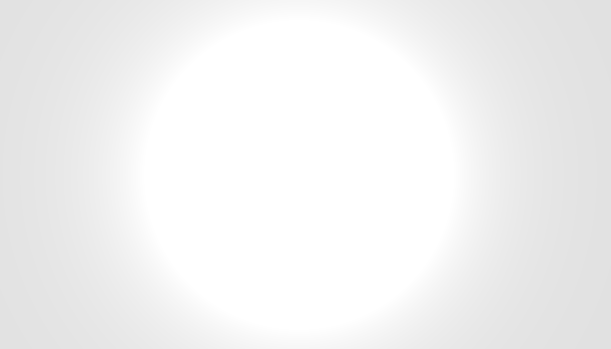
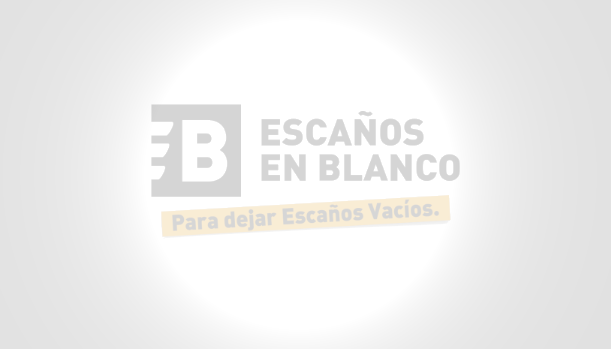
Añadido Saber más y fondo en la pantalla final

Changed region(s): [[0.2488, 0.2865, 0.7774, 0.6877]]

diff --git a/juego.js b/juego.js
@@ -1,6 +1,17 @@
 class GameOverScene extends Phaser.Scene {
 
   contador = 0;
+  textContent = ""
+  mensajes = 0;
+  moreButton = "";
+
+  style = {
+    fontSize: '32px',
+    fontFamily: 'Arial',
+    fill: '#000000',
+    wordWrap: { width: 580, useAdvancedWrap: true }
+  }
+    
 
   constructor() {
     super({ key: 'GameOverScene' });
@@ -8,6 +19,7 @@ class GameOverScene extends Phaser.Scene {
 
     // Vincula el contexto de 'this' en 'startGame' a la instancia de 'GameOverScene'
     this.startGame = this.startGame.bind(this);
+    this.updateText = this.updateText.bind(this);
   }
 
   init(data) {
@@ -25,20 +37,30 @@ class GameOverScene extends Phaser.Scene {
     console.log('PlayGameScene Scene Called');
     if (this.sound.context.state === 'suspended') {
       this.sound.context.resume();
-  }
+    }
     this.scene.start('PlayGameScene');
   }
-   
+
   create() {
+
+    this.mensajes = 0;
     // Configura el estado inicial de esta escena
     this.add.image(0, 0, 'background').setOrigin(0);
      // Cambia el color de fondo a blanco
     this.cameras.main.setBackgroundColor('#FFFFFF');
   
-    this.add.text(120, 10, '¡Enhorabuena!', { fontSize: '32px', fontFamily: 'Arial', fill: '#000000' });
-    this.add.text(20, 50, '¡Has eliminado a '+this.contador+ ' diputados!', { fontSize: '32px', fontFamily: 'Arial' , fill: '#000000' });
+    //this.add.text(120, 10, '¡Enhorabuena!', { fontSize: '32px', fontFamily: 'Arial', fill: '#000000' });
+    //this.add.text(20, 50, '¡Has eliminado a '+this.contador+ ' diputados!', { fontSize: '32px', fontFamily: 'Arial' , fill: '#000000' });
+    if (this.contador === 0) {
+      this.textContent = this.add.text(20, 16, '¡No has eliminado a ningún diputado!\nNo tengas miedo de golpearles, es solo un juego', this.style );
+    }
+    else
+    {
+      this.textContent = this.add.text(20, 16, '      ¡Enhorabuena!\n¡Has eliminado a '+this.contador+ ' diputados!', this.style );
+    }
 
-    this.startButton = this.add.text(100, 250, '  Jugar\nde nuevo', {
+    // Boton de jugar de nuevo  
+    this.startButton = this.add.text(20, 260, '   Jugar\nde nuevo', {
       fontSize: '32px',
       fontFamily: 'Arial' ,
       fill: '#FFAA00'
@@ -46,13 +68,50 @@ class GameOverScene extends Phaser.Scene {
         this.startButton.setInteractive();
     this.startButton.on('pointerdown', this.startGame);
 
-    this.link = this.add.text(350, 250, 'Saber\nmás', { fontSize: '32px', fontFamily: 'Arial', fill: '#FFAA00'});
+    //botón de saber más
+    this.moreButton = this.add.text(220, 260, 'Saber\n más', {
+      fontSize: '32px',
+      fontFamily: 'Arial' ,
+      fill: '#FFAA00'
+    }).setOrigin(0);
+        this.moreButton.setInteractive();
+    this.moreButton.on('pointerdown', this.updateText);
+
+    //Botón de compartir
+    this.link = this.add.text(420, 260, 'Compartir\nen Twitter', { fontSize: '32px', fontFamily: 'Arial', fill: '#FFAA00'});
     this.link.setInteractive({ useHandCursor: true });  // Hace que el cursor cambie a una mano al pasar por encima
     this.link.on('pointerup', () => {
-        window.open('http://escanos.org', '_blank'); // Abre el enlace en una nueva pestaña
+        window.open('https://twitter.com/intent/tweet?text=Me ha gustado mucho este juego. Te invito a jugarlo y a seguir a @escanosenblanco http://escanos.org', '_blank'); // Abre el enlace en una nueva pestaña
     });
 
   }
+   
+  updateText() {
+    console.log('AboutEB Scene Called');
+    // Cargo escena de saber más
+    this.mensajes += 1;
+    switch (this.mensajes) {
+      case 1:
+        this.textContent.setText('Escaños en Blanco es una alternativa útil al voto en blanco, voto nulo y abstención que permite a los ciudadanos dejar escaños vacíos como forma de rechazo a los candidatos o el sistema');
+        break;
+      case 2:   
+        this.textContent.setText('Escaños en Blanco se presenta a las elecciones con un partido, y no toma posesión de los escaños obtenidos.\nCon ello renuncia al escaño y a cualquier sueldo o subvención que pudiera corresponderle.');
+        break;
+      case 3:   
+        this.textContent.setText('De esa forma de visibiliza a aquellas personas que buscamos cambios profundos en la política y que no nos sentimos representados por los partidos tradicionales.');
+        break;
+      case 4:   
+        this.textContent.setText('Con esta iniciativa se busca:\n1. Visibilizar el descontento\n2. llamar la atención de los medios\n3.Abrir un debate sobre los deficits de nuestro sistema');
+        break;
+      case 5:
+        window.open('https://escanos.org', '_blank'); // Abre el enlace en una nueva pestaña
+        this.moreButton.setText('');
+        this.mensajes = 0;
+        break;
+      }
+  
+  }
+
 
   update() {
     // Actualiza el estado de esta escena en cada frame
@@ -123,7 +182,7 @@ class PlayGameScene extends Phaser.Scene {
   score = 0;
   positionImages = [];
   imagesToDisplay = ['feijo', 'abascal', 'diaz', 'sanchez'];
-  countdown = 30; // Tiempo de juego en segundos
+  countdown = 0; // Tiempo de juego en segundos
   scoreText ="";
   countdownText="";
   soundOpened = null;
@@ -144,7 +203,7 @@ class PlayGameScene extends Phaser.Scene {
 
   create() {
     console.log('Create PlayGameScene');
-    this.countdown = 30; // Tiempo de juego en segundos
+    this.countdown = 2; // Tiempo de juego en segundos
     this.score = 0;
 
     this.add.image(0, 0, 'congreso').setOrigin(0);
@@ -209,7 +268,7 @@ class PlayGameScene extends Phaser.Scene {
       { x: 500, y: 104 },
       { x: 100, y: 195 },
       { x: 200, y: 193 },
-      { x: 300, y: 192 },
+      { x: 300, y: 190 },
       { x: 400, y: 192 },
       { x: 500, y: 192 },
       { x: 100, y: 304 },
@@ -348,7 +407,7 @@ function create() {
 }
 
 function update() {
-  this.add.text(598, 340, '1.3', { fontSize: '8px', fontFamily: 'Arial', fill: '#000000' }) 
+  this.add.text(598, 340, '1.5', { fontSize: '8px', fontFamily: 'Arial', fill: '#FFFFFF' }) 
 }
 
 
